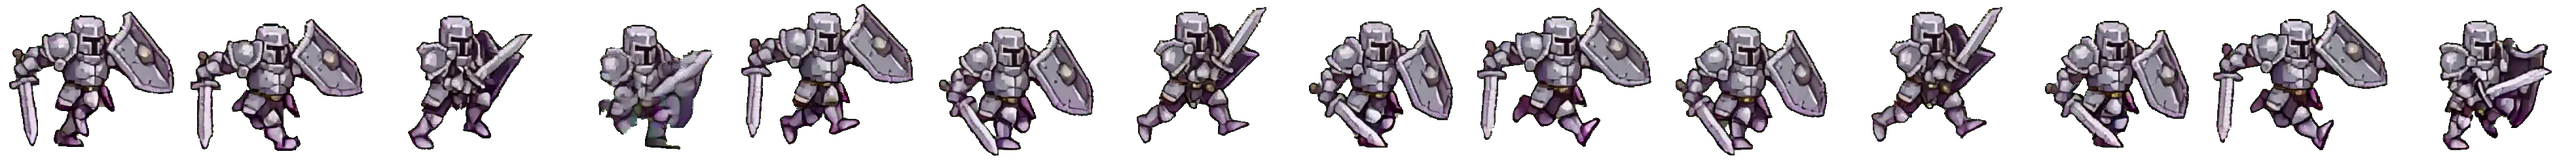
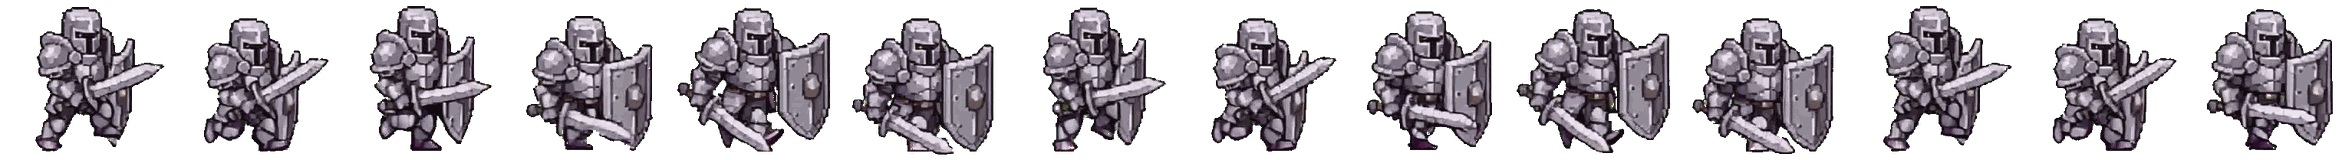
23개 캐릭터 동작 시트(대기·전투대기·달리기·피격·공격) 적용
- 로컬 영상 생성 → 이펙트 제거 → 시드 자동 선택(pick-sheets.py)으로 115개 시트 적용
- 팔레트 PNG 압축 (34MB → 7.7MB)

diff --git a/js/battle/rig.js b/js/battle/rig.js
@@ -117,7 +117,8 @@ const _RIG_BODY = h => [{}, { o: h * .6, t: 'rotate(-3deg)' }, { o: h, t: 'rotat
 // 화면에서 몸 높이가 모두 FIG_H(px)가 되게 확대/축소한다 (가로 폭은 달라져도 됨). 발끝은 같은 선에 맞춘다.
 // 값 = [머리 끝 y, 발끝 y] (원본 962x1087 기준, 무기 조각 영역 제외하고 측정)
 const CHAR_FIG = {
-  archer_01: [69, 1024], archer_02: [70, 1020], assassin_01: [124, 963], assassin_02: [123, 962],
+  commander_01: [130, 1030], commander_02: [130, 1030],
+    archer_01: [69, 1024], archer_02: [70, 1020], assassin_01: [124, 963], assassin_02: [123, 962],
   brawler_01: [122, 967], brawler_02: [125, 965], knight_01: [90, 994], knight_02: [124, 965],
   lancer_01: [167, 1074], lancer_02: [117, 1074], mage_01: [77, 1015], mage_02: [37, 1041],
   novice_01: [58, 1026], novice_02: [85, 1003], priest_01: [111, 1039], priest_02: [37, 1049],
@@ -138,8 +139,169 @@ const SPRITE_SHEETS = {
     attack: { src: 'image/character/anim/knight_01_attack.png', frames: 14, w: 219, h: 160, body: [51, 148], cx: 111.0, icx: 480.5, dur: 840, hit: 8 },
     idle: { src: 'image/character/anim/knight_01_idle.png', frames: 12, w: 167, h: 160, body: [3, 156], cx: 84.0, icx: 480.5, dur: 2400 },
     combat: { src: 'image/character/anim/knight_01_combat.png', frames: 12, w: 167, h: 160, body: [3, 156], cx: 82.0, icx: 480.5, dur: 1600 },
-    run: { src: 'image/character/anim/knight_01_run.png', frames: 14, w: 184, h: 160, body: [13, 152], cx: 96.0, icx: 480.5, dur: 1500 },
+    run: { src: 'image/character/anim/knight_01_run.png', frames: 14, w: 168, h: 160, body: [8, 154], cx: 95.5, icx: 480.5, dur: 1500 },
     hit: { src: 'image/character/anim/knight_01_hit.png', frames: 9, w: 174, h: 160, body: [8, 156], cx: 93.5, icx: 480.5, dur: 520, hit: 3 },
+  },
+  archer_01: {
+    attack: { src: 'image/character/anim/archer_01_attack.png', frames: 14, w: 200, h: 160, body: [14, 156], cx: 73.0, icx: 479.5, dur: 840, hit: 4 },
+    combat: { src: 'image/character/anim/archer_01_combat.png', frames: 12, w: 158, h: 160, body: [4, 156], cx: 76.5, icx: 479.5, dur: 1600 },
+    hit: { src: 'image/character/anim/archer_01_hit.png', frames: 9, w: 206, h: 160, body: [3, 156], cx: 127.5, icx: 479.5, dur: 520, hit: 3 },
+    idle: { src: 'image/character/anim/archer_01_idle.png', frames: 12, w: 157, h: 160, body: [4, 156], cx: 78.5, icx: 479.5, dur: 2400 },
+    run: { src: 'image/character/anim/archer_01_run.png', frames: 14, w: 151, h: 160, body: [7, 156], cx: 71.5, icx: 479.5, dur: 1500 },
+  },
+  archer_02: {
+    attack: { src: 'image/character/anim/archer_02_attack.png', frames: 14, w: 209, h: 160, body: [15, 157], cx: 74.0, icx: 483.0, dur: 840, hit: 4 },
+    combat: { src: 'image/character/anim/archer_02_combat.png', frames: 12, w: 158, h: 160, body: [4, 157], cx: 77.5, icx: 483.0, dur: 1600 },
+    hit: { src: 'image/character/anim/archer_02_hit.png', frames: 9, w: 184, h: 160, body: [3, 131], cx: 117.5, icx: 483.0, dur: 520, hit: 3 },
+    idle: { src: 'image/character/anim/archer_02_idle.png', frames: 12, w: 158, h: 160, body: [4, 157], cx: 79.0, icx: 483.0, dur: 2400 },
+    run: { src: 'image/character/anim/archer_02_run.png', frames: 14, w: 144, h: 160, body: [7, 156], cx: 71.5, icx: 483.0, dur: 1500 },
+  },
+  assassin_01: {
+    attack: { src: 'image/character/anim/assassin_01_attack.png', frames: 14, w: 292, h: 160, body: [6, 155], cx: 97.5, icx: 481.0, dur: 840, hit: 11 },
+    combat: { src: 'image/character/anim/assassin_01_combat.png', frames: 12, w: 120, h: 160, body: [4, 157], cx: 59.0, icx: 481.0, dur: 1600 },
+    hit: { src: 'image/character/anim/assassin_01_hit.png', frames: 9, w: 158, h: 160, body: [82, 159], cx: 58.0, icx: 481.0, dur: 520, hit: 3 },
+    idle: { src: 'image/character/anim/assassin_01_idle.png', frames: 12, w: 109, h: 160, body: [4, 155], cx: 55.0, icx: 481.0, dur: 2400 },
+    run: { src: 'image/character/anim/assassin_01_run.png', frames: 14, w: 127, h: 160, body: [7, 155], cx: 63.5, icx: 481.0, dur: 1500 },
+  },
+  assassin_02: {
+    attack: { src: 'image/character/anim/assassin_02_attack.png', frames: 14, w: 258, h: 160, body: [3, 155], cx: 89.5, icx: 483.5, dur: 840, hit: 10 },
+    combat: { src: 'image/character/anim/assassin_02_combat.png', frames: 12, w: 107, h: 160, body: [3, 155], cx: 49.0, icx: 483.5, dur: 1600 },
+    hit: { src: 'image/character/anim/assassin_02_hit.png', frames: 9, w: 142, h: 160, body: [81, 153], cx: 50.5, icx: 483.5, dur: 520, hit: 3 },
+    idle: { src: 'image/character/anim/assassin_02_idle.png', frames: 12, w: 107, h: 160, body: [3, 157], cx: 52.0, icx: 483.5, dur: 2400 },
+    run: { src: 'image/character/anim/assassin_02_run.png', frames: 14, w: 111, h: 160, body: [6, 152], cx: 57.5, icx: 483.5, dur: 1500 },
+  },
+  brawler_01: {
+    attack: { src: 'image/character/anim/brawler_01_attack.png', frames: 14, w: 170, h: 160, body: [4, 156], cx: 57.5, icx: 480.5, dur: 840, hit: 8 },
+    combat: { src: 'image/character/anim/brawler_01_combat.png', frames: 12, w: 122, h: 160, body: [3, 156], cx: 59.0, icx: 480.5, dur: 1600 },
+    hit: { src: 'image/character/anim/brawler_01_hit.png', frames: 9, w: 152, h: 160, body: [5, 150], cx: 104.0, icx: 480.5, dur: 520, hit: 3 },
+    idle: { src: 'image/character/anim/brawler_01_idle.png', frames: 12, w: 106, h: 160, body: [3, 156], cx: 51.0, icx: 480.5, dur: 2400 },
+    run: { src: 'image/character/anim/brawler_01_run.png', frames: 14, w: 127, h: 160, body: [8, 153], cx: 64.0, icx: 480.5, dur: 1500 },
+  },
+  brawler_02: {
+    attack: { src: 'image/character/anim/brawler_02_attack.png', frames: 14, w: 217, h: 160, body: [4, 156], cx: 49.0, icx: 480.0, dur: 840, hit: 9 },
+    combat: { src: 'image/character/anim/brawler_02_combat.png', frames: 12, w: 103, h: 160, body: [4, 156], cx: 45.0, icx: 480.0, dur: 1600 },
+    hit: { src: 'image/character/anim/brawler_02_hit.png', frames: 9, w: 140, h: 160, body: [0, 157], cx: 91.5, icx: 480.0, dur: 520, hit: 3 },
+    idle: { src: 'image/character/anim/brawler_02_idle.png', frames: 12, w: 91, h: 160, body: [4, 155], cx: 44.5, icx: 480.0, dur: 2400 },
+    run: { src: 'image/character/anim/brawler_02_run.png', frames: 14, w: 104, h: 160, body: [6, 155], cx: 54.5, icx: 480.0, dur: 1500 },
+  },
+  knight_02: {
+    attack: { src: 'image/character/anim/knight_02_attack.png', frames: 14, w: 225, h: 160, body: [29, 157], cx: 101.5, icx: 480.0, dur: 840, hit: 10 },
+    combat: { src: 'image/character/anim/knight_02_combat.png', frames: 12, w: 193, h: 160, body: [4, 156], cx: 90.5, icx: 480.0, dur: 1600 },
+    hit: { src: 'image/character/anim/knight_02_hit.png', frames: 9, w: 191, h: 160, body: [25, 156], cx: 106.5, icx: 480.0, dur: 520, hit: 3 },
+    idle: { src: 'image/character/anim/knight_02_idle.png', frames: 12, w: 175, h: 160, body: [3, 156], cx: 87.5, icx: 480.0, dur: 2400 },
+    run: { src: 'image/character/anim/knight_02_run.png', frames: 14, w: 185, h: 160, body: [6, 150], cx: 90.0, icx: 480.0, dur: 1500 },
+  },
+  lancer_01: {
+    attack: { src: 'image/character/anim/lancer_01_attack.png', frames: 14, w: 262, h: 160, body: [4, 156], cx: 82.5, icx: 482.5, dur: 840, hit: 11 },
+    combat: { src: 'image/character/anim/lancer_01_combat.png', frames: 12, w: 127, h: 160, body: [4, 156], cx: 59.0, icx: 482.5, dur: 1600 },
+    hit: { src: 'image/character/anim/lancer_01_hit.png', frames: 9, w: 262, h: 160, body: [21, 157], cx: 81.5, icx: 482.5, dur: 520, hit: 3 },
+    idle: { src: 'image/character/anim/lancer_01_idle.png', frames: 12, w: 114, h: 160, body: [4, 156], cx: 55.5, icx: 482.5, dur: 2400 },
+    run: { src: 'image/character/anim/lancer_01_run.png', frames: 14, w: 110, h: 160, body: [7, 156], cx: 56.0, icx: 482.5, dur: 1500 },
+  },
+  lancer_02: {
+    attack: { src: 'image/character/anim/lancer_02_attack.png', frames: 14, w: 283, h: 160, body: [1, 156], cx: 83.5, icx: 481.5, dur: 840, hit: 9 },
+    combat: { src: 'image/character/anim/lancer_02_combat.png', frames: 12, w: 126, h: 160, body: [4, 156], cx: 60.5, icx: 481.5, dur: 1600 },
+    hit: { src: 'image/character/anim/lancer_02_hit.png', frames: 9, w: 203, h: 160, body: [52, 158], cx: 77.0, icx: 481.5, dur: 520, hit: 3 },
+    idle: { src: 'image/character/anim/lancer_02_idle.png', frames: 12, w: 119, h: 160, body: [4, 156], cx: 54.5, icx: 481.5, dur: 2400 },
+    run: { src: 'image/character/anim/lancer_02_run.png', frames: 14, w: 129, h: 160, body: [7, 155], cx: 72.5, icx: 481.5, dur: 1500 },
+  },
+  mage_01: {
+    attack: { src: 'image/character/anim/mage_01_attack.png', frames: 14, w: 210, h: 160, body: [43, 158], cx: 70.0, icx: 483.0, dur: 840, hit: 7 },
+    combat: { src: 'image/character/anim/mage_01_combat.png', frames: 12, w: 153, h: 160, body: [4, 155], cx: 73.0, icx: 483.0, dur: 1600 },
+    hit: { src: 'image/character/anim/mage_01_hit.png', frames: 9, w: 192, h: 160, body: [69, 159], cx: 74.5, icx: 483.0, dur: 520, hit: 3 },
+    idle: { src: 'image/character/anim/mage_01_idle.png', frames: 12, w: 143, h: 160, body: [4, 157], cx: 69.5, icx: 483.0, dur: 2400 },
+    run: { src: 'image/character/anim/mage_01_run.png', frames: 14, w: 137, h: 160, body: [5, 155], cx: 75.0, icx: 483.0, dur: 1500 },
+  },
+  mage_02: {
+    attack: { src: 'image/character/anim/mage_02_attack.png', frames: 14, w: 246, h: 160, body: [18, 157], cx: 74.0, icx: 481.5, dur: 840, hit: 10 },
+    combat: { src: 'image/character/anim/mage_02_combat.png', frames: 12, w: 129, h: 160, body: [3, 156], cx: 63.0, icx: 481.5, dur: 1600 },
+    hit: { src: 'image/character/anim/mage_02_hit.png', frames: 9, w: 223, h: 160, body: [44, 151], cx: 81.5, icx: 481.5, dur: 520, hit: 3 },
+    idle: { src: 'image/character/anim/mage_02_idle.png', frames: 12, w: 126, h: 160, body: [4, 156], cx: 63.5, icx: 481.5, dur: 2400 },
+    run: { src: 'image/character/anim/mage_02_run.png', frames: 14, w: 131, h: 160, body: [7, 154], cx: 67.0, icx: 481.5, dur: 1500 },
+  },
+  novice_01: {
+    attack: { src: 'image/character/anim/novice_01_attack.png', frames: 14, w: 281, h: 160, body: [4, 155], cx: 121.5, icx: 479.0, dur: 840, hit: 9 },
+    combat: { src: 'image/character/anim/novice_01_combat.png', frames: 12, w: 121, h: 160, body: [13, 157], cx: 61.0, icx: 479.0, dur: 1600 },
+    hit: { src: 'image/character/anim/novice_01_hit.png', frames: 9, w: 281, h: 160, body: [7, 135], cx: 110.0, icx: 479.0, dur: 520, hit: 3 },
+    idle: { src: 'image/character/anim/novice_01_idle.png', frames: 12, w: 130, h: 160, body: [4, 157], cx: 64.5, icx: 479.0, dur: 2400 },
+    run: { src: 'image/character/anim/novice_01_run.png', frames: 14, w: 122, h: 160, body: [6, 154], cx: 66.5, icx: 479.0, dur: 1500 },
+  },
+  novice_02: {
+    attack: { src: 'image/character/anim/novice_02_attack.png', frames: 14, w: 258, h: 160, body: [4, 157], cx: 83.0, icx: 481.0, dur: 840, hit: 9 },
+    combat: { src: 'image/character/anim/novice_02_combat.png', frames: 12, w: 124, h: 160, body: [6, 157], cx: 62.0, icx: 481.0, dur: 1600 },
+    hit: { src: 'image/character/anim/novice_02_hit.png', frames: 9, w: 204, h: 160, body: [56, 159], cx: 69.0, icx: 481.0, dur: 520, hit: 3 },
+    idle: { src: 'image/character/anim/novice_02_idle.png', frames: 12, w: 119, h: 160, body: [4, 155], cx: 57.5, icx: 481.0, dur: 2400 },
+    run: { src: 'image/character/anim/novice_02_run.png', frames: 14, w: 115, h: 160, body: [8, 155], cx: 66.5, icx: 481.0, dur: 1500 },
+  },
+  priest_01: {
+    attack: { src: 'image/character/anim/priest_01_attack.png', frames: 14, w: 225, h: 160, body: [26, 153], cx: 86.5, icx: 480.5, dur: 840, hit: 7 },
+    combat: { src: 'image/character/anim/priest_01_combat.png', frames: 12, w: 145, h: 160, body: [5, 156], cx: 72.0, icx: 480.5, dur: 1600 },
+    hit: { src: 'image/character/anim/priest_01_hit.png', frames: 9, w: 162, h: 160, body: [81, 159], cx: 62.5, icx: 480.5, dur: 520, hit: 3 },
+    idle: { src: 'image/character/anim/priest_01_idle.png', frames: 12, w: 142, h: 160, body: [3, 156], cx: 72.5, icx: 480.5, dur: 2400 },
+    run: { src: 'image/character/anim/priest_01_run.png', frames: 14, w: 130, h: 160, body: [13, 154], cx: 66.5, icx: 480.5, dur: 1500 },
+  },
+  priest_02: {
+    attack: { src: 'image/character/anim/priest_02_attack.png', frames: 14, w: 171, h: 160, body: [43, 138], cx: 54.0, icx: 482.0, dur: 840, hit: 10 },
+    combat: { src: 'image/character/anim/priest_02_combat.png', frames: 12, w: 117, h: 160, body: [4, 156], cx: 59.5, icx: 482.0, dur: 1600 },
+    hit: { src: 'image/character/anim/priest_02_hit.png', frames: 9, w: 182, h: 160, body: [73, 159], cx: 71.0, icx: 482.0, dur: 520, hit: 3 },
+    idle: { src: 'image/character/anim/priest_02_idle.png', frames: 12, w: 134, h: 160, body: [6, 156], cx: 59.0, icx: 482.0, dur: 2400 },
+    run: { src: 'image/character/anim/priest_02_run.png', frames: 14, w: 132, h: 160, body: [8, 155], cx: 68.0, icx: 482.0, dur: 1500 },
+  },
+  sapper_01: {
+    attack: { src: 'image/character/anim/sapper_01_attack.png', frames: 14, w: 184, h: 160, body: [41, 144], cx: 57.0, icx: 484.5, dur: 840, hit: 12 },
+    combat: { src: 'image/character/anim/sapper_01_combat.png', frames: 12, w: 168, h: 160, body: [4, 155], cx: 84.5, icx: 484.5, dur: 1600 },
+    hit: { src: 'image/character/anim/sapper_01_hit.png', frames: 9, w: 170, h: 160, body: [78, 148], cx: 81.0, icx: 484.5, dur: 520, hit: 3 },
+    idle: { src: 'image/character/anim/sapper_01_idle.png', frames: 12, w: 172, h: 160, body: [3, 157], cx: 85.5, icx: 484.5, dur: 2400 },
+    run: { src: 'image/character/anim/sapper_01_run.png', frames: 14, w: 152, h: 160, body: [8, 154], cx: 83.5, icx: 484.5, dur: 1500 },
+  },
+  sapper_02: {
+    attack: { src: 'image/character/anim/sapper_02_attack.png', frames: 14, w: 162, h: 160, body: [27, 141], cx: 54.5, icx: 479.5, dur: 840, hit: 8 },
+    combat: { src: 'image/character/anim/sapper_02_combat.png', frames: 12, w: 129, h: 160, body: [3, 155], cx: 64.0, icx: 479.5, dur: 1600 },
+    hit: { src: 'image/character/anim/sapper_02_hit.png', frames: 9, w: 130, h: 160, body: [73, 149], cx: 75.5, icx: 479.5, dur: 520, hit: 3 },
+    idle: { src: 'image/character/anim/sapper_02_idle.png', frames: 12, w: 124, h: 160, body: [3, 157], cx: 63.5, icx: 479.5, dur: 2400 },
+    run: { src: 'image/character/anim/sapper_02_run.png', frames: 14, w: 123, h: 160, body: [5, 154], cx: 69.5, icx: 479.5, dur: 1500 },
+  },
+  shaman_01: {
+    attack: { src: 'image/character/anim/shaman_01_attack.png', frames: 14, w: 207, h: 160, body: [11, 151], cx: 73.0, icx: 481.0, dur: 840, hit: 11 },
+    combat: { src: 'image/character/anim/shaman_01_combat.png', frames: 12, w: 135, h: 160, body: [4, 157], cx: 71.5, icx: 481.0, dur: 1600 },
+    hit: { src: 'image/character/anim/shaman_01_hit.png', frames: 9, w: 281, h: 160, body: [27, 155], cx: 110.0, icx: 481.0, dur: 520, hit: 3 },
+    idle: { src: 'image/character/anim/shaman_01_idle.png', frames: 12, w: 126, h: 160, body: [7, 157], cx: 63.5, icx: 481.0, dur: 2400 },
+    run: { src: 'image/character/anim/shaman_01_run.png', frames: 14, w: 126, h: 160, body: [9, 154], cx: 61.5, icx: 481.0, dur: 1500 },
+  },
+  shaman_02: {
+    attack: { src: 'image/character/anim/shaman_02_attack.png', frames: 14, w: 235, h: 160, body: [23, 157], cx: 64.0, icx: 481.5, dur: 840, hit: 10 },
+    combat: { src: 'image/character/anim/shaman_02_combat.png', frames: 12, w: 129, h: 160, body: [3, 156], cx: 61.5, icx: 481.5, dur: 1600 },
+    hit: { src: 'image/character/anim/shaman_02_hit.png', frames: 9, w: 92, h: 160, body: [80, 143], cx: 49.5, icx: 481.5, dur: 520, hit: 3 },
+    idle: { src: 'image/character/anim/shaman_02_idle.png', frames: 12, w: 119, h: 160, body: [4, 156], cx: 58.0, icx: 481.5, dur: 2400 },
+    run: { src: 'image/character/anim/shaman_02_run.png', frames: 14, w: 126, h: 160, body: [8, 155], cx: 64.0, icx: 481.5, dur: 1500 },
+  },
+  summoner_01: {
+    attack: { src: 'image/character/anim/summoner_01_attack.png', frames: 14, w: 177, h: 160, body: [51, 156], cx: 64.5, icx: 478.0, dur: 840, hit: 11 },
+    combat: { src: 'image/character/anim/summoner_01_combat.png', frames: 12, w: 142, h: 160, body: [4, 156], cx: 68.5, icx: 478.0, dur: 1600 },
+    hit: { src: 'image/character/anim/summoner_01_hit.png', frames: 9, w: 121, h: 160, body: [82, 148], cx: 52.5, icx: 478.0, dur: 520, hit: 3 },
+    idle: { src: 'image/character/anim/summoner_01_idle.png', frames: 12, w: 135, h: 160, body: [4, 155], cx: 67.0, icx: 478.0, dur: 2400 },
+    run: { src: 'image/character/anim/summoner_01_run.png', frames: 14, w: 134, h: 160, body: [7, 155], cx: 70.5, icx: 478.0, dur: 1500 },
+  },
+  summoner_02: {
+    attack: { src: 'image/character/anim/summoner_02_attack.png', frames: 14, w: 211, h: 160, body: [45, 158], cx: 63.0, icx: 479.5, dur: 840, hit: 7 },
+    combat: { src: 'image/character/anim/summoner_02_combat.png', frames: 12, w: 117, h: 160, body: [4, 157], cx: 54.5, icx: 479.5, dur: 1600 },
+    hit: { src: 'image/character/anim/summoner_02_hit.png', frames: 9, w: 144, h: 160, body: [84, 160], cx: 52.5, icx: 479.5, dur: 520, hit: 3 },
+    idle: { src: 'image/character/anim/summoner_02_idle.png', frames: 12, w: 109, h: 160, body: [3, 157], cx: 55.5, icx: 479.5, dur: 2400 },
+    run: { src: 'image/character/anim/summoner_02_run.png', frames: 14, w: 136, h: 160, body: [7, 154], cx: 70.5, icx: 479.5, dur: 1500 },
+  },
+  warrior_01: {
+    attack: { src: 'image/character/anim/warrior_01_attack.png', frames: 14, w: 209, h: 160, body: [34, 156], cx: 84.0, icx: 482.5, dur: 840, hit: 11 },
+    combat: { src: 'image/character/anim/warrior_01_combat.png', frames: 12, w: 142, h: 160, body: [16, 156], cx: 71.0, icx: 482.5, dur: 1600 },
+    hit: { src: 'image/character/anim/warrior_01_hit.png', frames: 9, w: 322, h: 160, body: [4, 157], cx: 117.5, icx: 482.5, dur: 520, hit: 3 },
+    idle: { src: 'image/character/anim/warrior_01_idle.png', frames: 12, w: 143, h: 160, body: [16, 156], cx: 72.0, icx: 482.5, dur: 2400 },
+    run: { src: 'image/character/anim/warrior_01_run.png', frames: 14, w: 141, h: 160, body: [9, 155], cx: 70.0, icx: 482.5, dur: 1500 },
+  },
+  warrior_02: {
+    attack: { src: 'image/character/anim/warrior_02_attack.png', frames: 14, w: 189, h: 160, body: [38, 153], cx: 72.0, icx: 481.5, dur: 840, hit: 13 },
+    combat: { src: 'image/character/anim/warrior_02_combat.png', frames: 12, w: 140, h: 160, body: [14, 156], cx: 70.0, icx: 481.5, dur: 1600 },
+    hit: { src: 'image/character/anim/warrior_02_hit.png', frames: 9, w: 196, h: 160, body: [42, 145], cx: 88.0, icx: 481.5, dur: 520, hit: 3 },
+    idle: { src: 'image/character/anim/warrior_02_idle.png', frames: 12, w: 155, h: 160, body: [6, 156], cx: 78.5, icx: 481.5, dur: 2400 },
+    run: { src: 'image/character/anim/warrior_02_run.png', frames: 14, w: 140, h: 160, body: [12, 156], cx: 68.5, icx: 481.5, dur: 1500 },
   },
 };
 

diff --git a/tools/pick-sheets.py b/tools/pick-sheets.py
@@ -1,0 +1,126 @@
+#!/usr/bin/env python3
+"""개발용: 시드별 시트(tools/_work/anim/sheets) 중 캐릭터·동작마다 가장 깨끗한 것을 골라 게임에 등록
+
+사용: python3 tools/pick-sheets.py [--dry] [--only knight_02,...]
+점수(낮을수록 좋음):
+  - 영상 테두리에 닿음(동작이 잘림) → 큰 감점
+  - 프레임 간 몸 높이·위치 흔들림 (대기·전투대기는 특히 작아야 함)
+  - 첫 프레임과 마지막 프레임 차이 (반복 동작은 이음새가 자연스러워야 함)
+  - 프레임마다 떨어진 조각 수(남은 이펙트·잡티)
+공격은 오른쪽으로 가장 멀리 뻗은 프레임을 타격 프레임(hit)으로 잡는다.
+"""
+import json, os, subprocess, sys
+from PIL import Image, ImageChops
+
+ROOT = os.path.dirname(os.path.dirname(os.path.abspath(__file__)))
+D = os.path.join(ROOT, 'tools', '_work', 'anim', 'sheets')
+man = json.load(open(os.path.join(D, 'manifest.json')))
+only = sys.argv[sys.argv.index('--only') + 1].split(',') if '--only' in sys.argv else None
+DUR = {'idle': 2400, 'combat': 1600, 'run': 1500, 'hit': 520}
+SKIP = {'knight_01'}  # 이미 직접 골라 적용함
+
+def frames(meta):
+    im = Image.open(os.path.join(ROOT, 'tools', meta['src'])).convert('RGBA')
+    return [im.crop((i * meta['w'], 0, (i + 1) * meta['w'], meta['h'])) for i in range(meta['frames'])]
+
+def score(meta, motion):
+    fs = frames(meta); bbs = [f.getbbox() for f in fs]
+    if any(b is None for b in bbs): return 1e9, None
+    s = 0.0
+    if meta.get('edge_touch'): s += 500 * len(meta['edge_touch'])
+    hs = [b[3] - b[1] for b in bbs]; bots = [b[3] for b in bbs]; cxs = [(b[0] + b[2]) / 2 for b in bbs]
+    w = {'idle': 6, 'combat': 4, 'run': 1.5, 'hit': 1, 'attack': 0.5}[motion]
+    s += w * ((max(hs) - min(hs)) + (max(bots) - min(bots)) + 0.5 * (max(cxs) - min(cxs)))
+    if motion in ('idle', 'combat', 'run'):
+        diff = ImageChops.difference(fs[0].convert('RGB'), fs[-1].convert('RGB')).convert('L')
+        s += 0.002 * sum(diff.getdata())
+    # 몸 크기 대비 너무 작거나 큰 프레임(변형) 감점
+    s += 2 * sum(abs(h - hs[0]) > hs[0] * 0.35 for h in hs) * 20
+    hit = None
+    if motion == 'attack':
+        rights = [b[2] for b in bbs]
+        k = max(range(len(fs)), key=lambda i: rights[i])
+        hit = k
+        if k < 3: s += 200  # 너무 이른 타격 = 동작이 이상함
+        if rights[k] - rights[0] < meta['w'] * 0.08: s += 300  # 앞으로 거의 안 뻗음
+    return s, hit
+
+# 몸에 붙은 섬광·궤적이 남은 프레임(몸 크기에 비해 너무 넓거나 높음)을 바로 앞의 깨끗한 프레임으로 바꾼 사본을 만듦
+def clean_frames(meta, src):
+    fs = frames(meta); bbs = [f.getbbox() for f in fs]
+    ws = sorted(b[2] - b[0] for b in bbs); hs = sorted(b[3] - b[1] for b in bbs)
+    mw, mh_ = ws[len(ws) // 2], hs[len(hs) // 2]
+    bad = [(b[2] - b[0]) > mw * 1.45 or (b[3] - b[1]) > mh_ * 1.25 for b in bbs]
+    if not any(bad): return src
+    out = Image.new('RGBA', (meta['w'] * meta['frames'], meta['h']))
+    last = next(i for i in range(len(fs)) if not bad[i])
+    for i, f in enumerate(fs):
+        if not bad[i]: last = i
+        out.paste(fs[last], (i * meta['w'], 0))
+    dst = src[:-4] + '_clean.png'; out.save(dst)
+    json.dump(meta, open(dst + '.json', 'w'))
+    return dst
+
+# 공격: 처음 자세의 몸 영역 바깥에 있는 섬광(아주 밝은 흰색·강한 노란/주황 빛)을 지우고, 몸에서 떨어진 작은 조각도 지움
+def strip_flash(meta, src):
+    fs = frames(meta); b0 = fs[0].getbbox(); m = 6
+    out = Image.new('RGBA', (meta['w'] * meta['frames'], meta['h']))
+    body = sum(1 for p in fs[0].getdata() if p[3]); prev = None
+    for i, f in enumerate(fs):
+        f = f.copy(); px = f.load(); W, H = f.size; stripped = 0
+        for y in range(H):
+            for x in range(W):
+                r, g, b, a = px[x, y]
+                if not a or (b0[0] - m <= x <= b0[2] + m and b0[1] - m <= y <= b0[3] + m): continue
+                white = min(r, g, b) >= 236
+                glow = r > 215 and g > 160 and b < 140 and r - b > 90
+                cyan = b > 220 and g > 200 and r < 200
+                if white or glow or cyan: px[x, y] = (0, 0, 0, 0); stripped += 1
+        # 작은 조각 제거 (몸 덩어리의 6% 미만)
+        a = f.split()[3].point(lambda v: 255 if v else 0)
+        seen = bytearray(W * H); blobs = []
+        for y0 in range(H):
+            for x0 in range(W):
+                if seen[y0 * W + x0] or not a.getpixel((x0, y0)): continue
+                st = [(x0, y0)]; seen[y0 * W + x0] = 1; bl = []
+                while st:
+                    x, y = st.pop(); bl.append((x, y))
+                    for nx, ny in ((x+1,y),(x-1,y),(x,y+1),(x,y-1)):
+                        if 0 <= nx < W and 0 <= ny < H and not seen[ny*W+nx] and a.getpixel((nx, ny)):
+                            seen[ny*W+nx] = 1; st.append((nx, ny))
+                blobs.append(bl)
+        big = max((len(b) for b in blobs), default=0)
+        for bl in blobs:
+            if len(bl) < big * 0.06:
+                for x, y in bl: px[x, y] = (0, 0, 0, 0)
+        # 섬광이 컸던 프레임은 흔적이 남으므로 바로 앞 프레임으로 대체
+        if stripped > body * 0.04 and prev is not None: f = prev
+        out.paste(f, (i * meta['w'], 0)); prev = f
+    dst = src[:-4] + '_noflash.png'; out.save(dst); json.dump(meta, open(dst + '.json', 'w'))
+    return dst
+
+picked = {}
+for key in sorted(man):
+    if key in SKIP or (only and key not in only): continue
+    for motion, cands in man[key].items():
+        best = None
+        for c in cands:
+            sc, hit = score(c, motion)
+            if best is None or sc < best[0]: best = (sc, c, hit)
+        sc, c, hit = best
+        picked[f'{key}.{motion}'] = {'seed': c['seed'], 'score': round(sc, 1), 'hit': hit}
+        if '--dry' in sys.argv: continue
+        src = os.path.join(ROOT, 'tools', c['src'])
+        src = clean_frames(c, src) if motion != 'attack' else strip_flash(c, src)
+        if motion == 'attack':
+            dur = max(700, min(1100, c['frames'] * 60))
+            args = [key, 'attack', src, str(dur), str(hit)]
+        elif motion == 'hit':
+            args = [key, 'hit', src, str(DUR['hit']), '3']
+        else:
+            args = [key, motion, src, str(DUR[motion])]
+        subprocess.run([sys.executable, os.path.join(ROOT, 'tools', 'apply-sheet.py')] + args, check=True, capture_output=True)
+json.dump(picked, open(os.path.join(D, 'picked.json'), 'w'), ensure_ascii=False, indent=1)
+print(len(picked), 'picked')
+bad = {k: v for k, v in picked.items() if v['score'] >= 300}
+print('주의(점수 300 이상):', json.dumps(bad, ensure_ascii=False))

diff --git a/tools/build-review.py b/tools/build-review.py
@@ -14,7 +14,7 @@ D = os.path.join(ROOT, 'tools', '_work', 'anim'); OUT = os.path.join(D, 'sheets'
 os.makedirs(OUT, exist_ok=True)
 # 동작별 변환 구간: (프레임 수, 시작초, 끝초, 추가 옵션)
 SPEC = {'idle': (12, 0, 2.3, []), 'combat': (12, 0, 2.3, []), 'run': (14, 0.25, 2.75, ['--body-median']),
-        'hit': (9, 0, 1.55, []), 'attack': (18, 0.1, 2.95, [])}
+        'hit': (9, 0, 1.55, []), 'attack': (14, 0.1, 2.0, [])}
 
 def parse(path):
     name = os.path.basename(path)[:-4]
